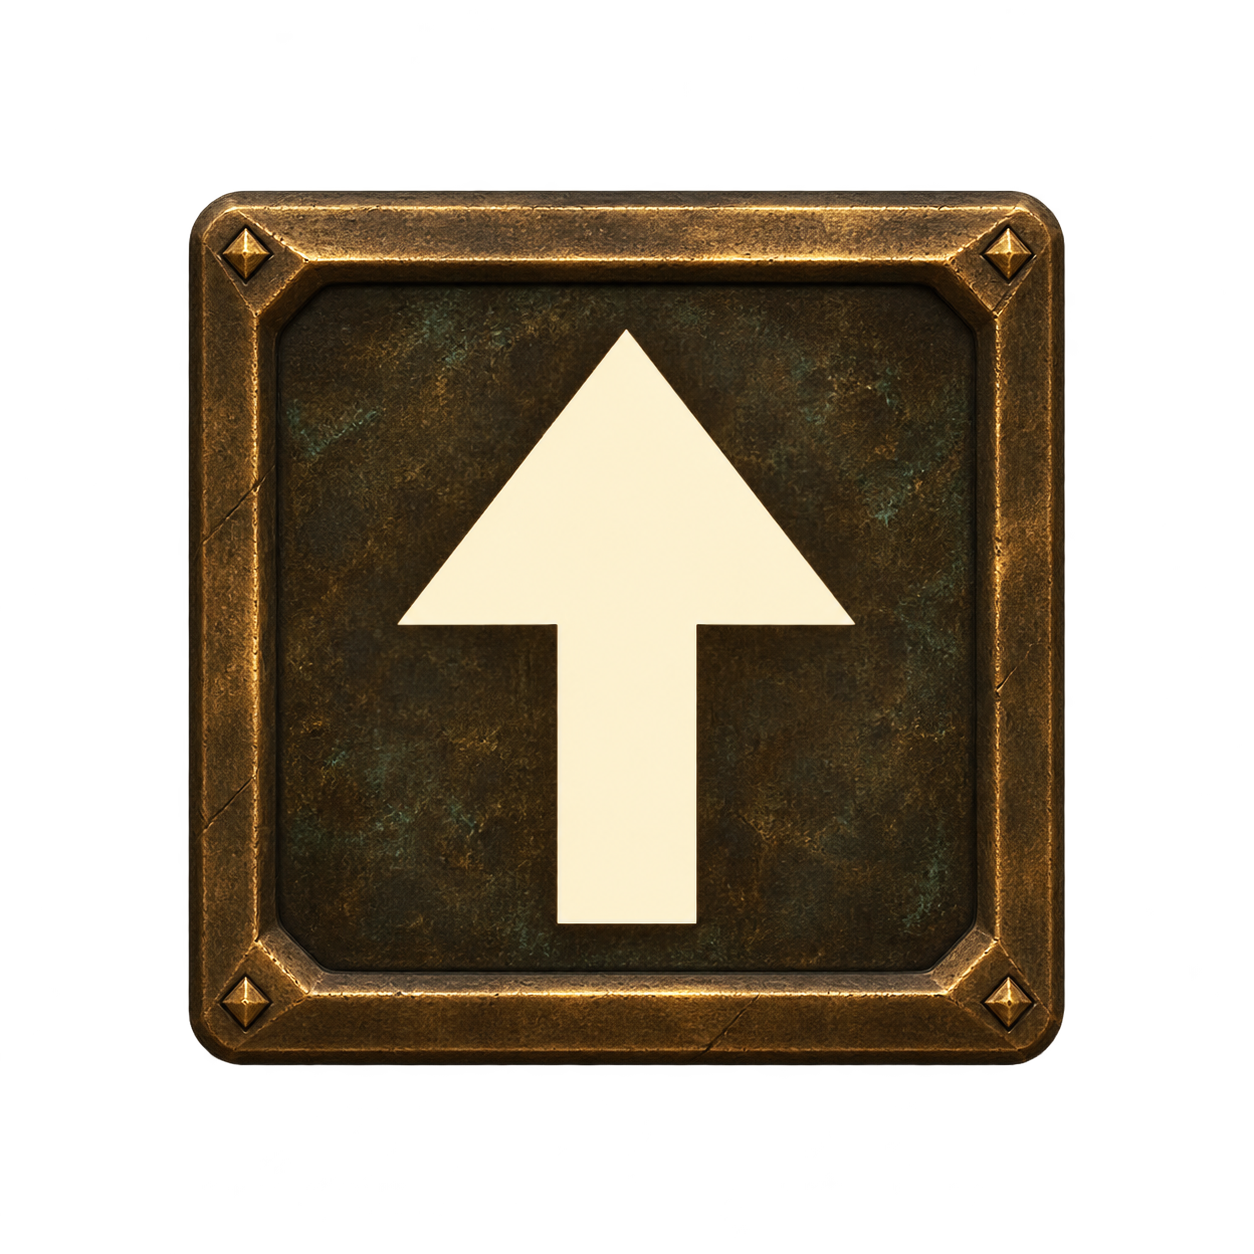
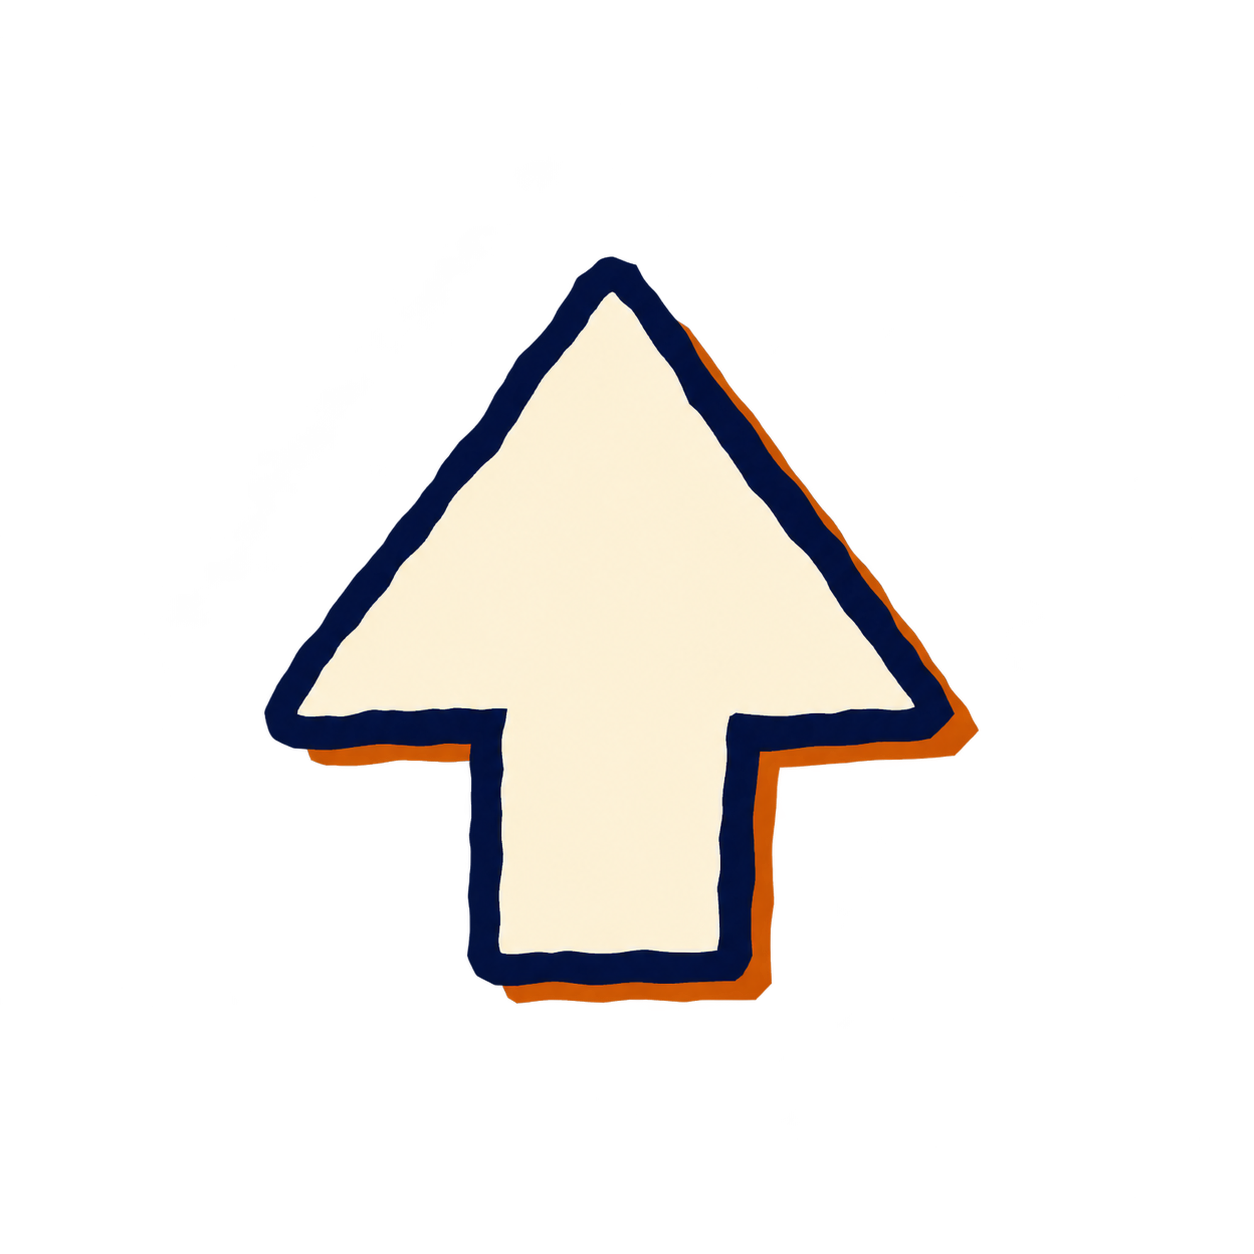
리소스 - 플래시풍 던전과 해골 문지기 및 방향키 반영

diff --git a/20's Game Gem/Assets/GameResource/Scripts/Object/UI/DungeonRunView.cs b/20's Game Gem/Assets/GameResource/Scripts/Object/UI/DungeonRunView.cs
@@ -68,8 +68,8 @@ namespace DdaIT.DungeonRun
             var monsterArt = Art("Revenant");
             _corridor = Picture(stage, "Catacomb", 0, 0, 1, 1, corridorArt);
             _nextCorridor = Picture(stage, "Next Passage", 0, 0, 1, 1, corridorArt);
-            _monster = Picture(stage, "Revenant", .32f, .14f, .68f, .74f, monsterArt);
-            _defeated = Picture(stage, "Defeated Revenant", .32f, .14f, .68f, .74f, monsterArt);
+            _monster = Picture(stage, "Revenant", .367f, .275f, .633f, .808f, monsterArt);
+            _defeated = Picture(stage, "Defeated Revenant", .367f, .275f, .633f, .808f, monsterArt);
             _slash = Plate(stage, "Strike", .31f, .456f, .69f, .468f, Color.clear);
             _flash = Plate(stage, "Impact", 0, 0, 1, 1, Color.clear);
 
@@ -135,7 +135,8 @@ namespace DdaIT.DungeonRun
 
             var monster = _monster.rectTransform;
             var arrive = Mathf.SmoothStep(0, 1, Mathf.Clamp01((hitAge - .055f) / .16f));
-            monster.anchoredPosition = new Vector2(playing ? 0 : 270, Mathf.Sin(now * 4) * 3);
+            var idleBob = Mathf.Sin(now * 4) * 3;
+            monster.anchoredPosition = playing ? new Vector2(0, idleBob) : new Vector2(270, idleBob - 70);
             monster.localScale = Vector3.one * (playing ? Mathf.Lerp(.55f, 1, arrive) : 1.22f);
             _monster.color = new Color(1, 1, 1, playing ? arrive : finished ? .48f : 1);
             _defeated.rectTransform.localScale = Vector3.one * (1 + .25f * advance);
